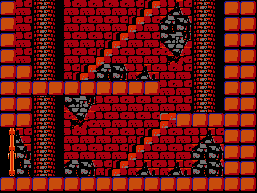
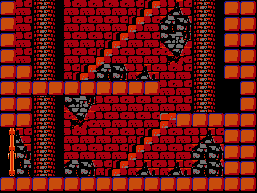
Add Simple HUD

Changed region(s): [[0.8716, 0.4041, 0.9339, 0.5907]]

diff --git a/Game/Simon.cpp b/Game/Simon.cpp
@@ -108,16 +108,6 @@ void CSimon::ProceedOnStairs()
 
 }
 
-//void CSimon::UseDagger()
-//{
-//	float xS, yS;
-//	this->GetPosition(xS, yS);
-//	dagger->SetPosition(xS, yS);
-//	dagger->SetOrientation(this->nx);
-//	dagger->SetVisible(true);
-//	this->SetState(SIMON_STATE_THROW);
-//}
-
 void CSimon::GoDownStair()
 {
 	// Check if Simon is on stairs and want to go down
@@ -240,8 +230,9 @@ void CSimon::Update(DWORD dt, vector <LPGAMEOBJECT>* coObjects)
 	coEvents.clear();
 		
 	// turn off collision when simon is die
-	if (state != SIMON_STATE_DIE)
+	if (state != SIMON_STATE_DIE )
 	{
+		
 		CalcPotentialCollisions(coObjects, coEvents);
 	}
 
@@ -374,22 +365,14 @@ void CSimon::Update(DWORD dt, vector <LPGAMEOBJECT>* coObjects)
 			}
 #pragma endregion
 			
-			else if (dynamic_cast<CStairBottom*> (e->obj))
+			else if (dynamic_cast<CStairBottom*> (e->obj) ||
+				dynamic_cast<CStairTop*> (e->obj))
 			{
-				DebugOut(L"[INFO] Stair bottom detection ! Direction: %d \n",this->nx);
+				DebugOut(L"[INFO] Stair detection ! Direction: %d \n",this->nx);
 				// Process normally
 				if (e->nx != 0) x += dx;
 				if (e->ny != 0) y += dy;
 	
-			}
-
-			else if (dynamic_cast<CStairTop*> (e->obj))
-			{
-				DebugOut(L"[INFO] Stair top detection ! Direction: %d \n", this->nx);
-				// Process normally
-				if (e->nx != 0) x += dx;
-				if (e->ny != 0) y += dy;
-
 			}
 
 			// switching scene logic		
@@ -400,12 +383,12 @@ void CSimon::Update(DWORD dt, vector <LPGAMEOBJECT>* coObjects)
 			CGame::GetInstance()->SwitchScene(p->GetSceneId());
 			}
 
-			else if (dynamic_cast<CBat*>(e->obj) ||
-			dynamic_cast<CBlack_Knight*>(e->obj))
+			else if (dynamic_cast<CBat*>(e->obj) ||	dynamic_cast<CBlack_Knight*>(e->obj))
 			{
-			if (e->nx != 0)
+			if (e->nx != 0 && untouchable==0)
 			{
-				if (untouchable == 0)
+			
+				if (onStairs == 0)
 				{
 					StartUntouchable();
 					DebugOut(L"[INFO] Enemies collision, Simon is Damaged \n");
@@ -415,11 +398,14 @@ void CSimon::Update(DWORD dt, vector <LPGAMEOBJECT>* coObjects)
 
 					SetState(SIMON_STATE_DEFLECT);
 				}
-					
-			}
-
-		}
-
+				else
+				{
+					StartUntouchable();
+					if (e->nx != 0) x += dx;
+					if (e->ny != 0) y += dy;
+				}
+			 }
+			 }
 
 			else
 			{
@@ -568,10 +554,14 @@ void CSimon::SetState(int state)
 	case SIMON_STATE_DEFLECT:
 	{
 		vy = -SIMON_DEFLECT_SPEED_Y;
+
 		if (nx > 0) vx = -SIMON_DEFLECT_SPEED_X;
 		else vx = SIMON_DEFLECT_SPEED_X;
+
 		animation_set->at(SIMON_ANI_DEFLECT)->Reset();
 		animation_set->at(SIMON_ANI_DEFLECT)->SetAniStartTime(GetTickCount());
+		
+		break;		
 	}
 	
 	}

diff --git a/Game/Code.cpp b/Game/Code.cpp
@@ -1,0 +1,52 @@
+#include "Code.h"
+#include "Sprites.h"
+
+void Code::DrawNumber(int max, float x, float y, int s)
+{
+	string str = to_string(s);
+
+	for (int i = 0; i < max - str.size(); i++)
+	{
+		CSprites::GetInstance()->Get(88000)->Draw(x, y,-1);
+		x += 7;
+	}
+
+	for (int i = 0; i < str.size(); i++)
+	{
+		CSprites::GetInstance()->Get(88000 + Convert(str[i]))->Draw(x, y,-1);
+		x += 7;
+	}
+}
+
+void Code::DrawHP(float x, float y, int type, int s)
+{
+	CSprites* sprites = CSprites::GetInstance();
+	CSprite* sprite1 = sprites->Get(88101);
+	CSprite* sprite2 = NULL;
+
+	if (type == 0) // simon health point
+		sprite2 = sprites->Get(88102);
+	else // Enemy
+		sprite2 = sprites->Get(88103);
+
+	for (int i = 0; i < s; i++)
+	{
+		sprite2->Draw(x, y,-1);
+		x += 6;
+	}
+
+	for (int i = 0; i < 6 - s; i++)
+	{
+		sprite1->Draw(x, y,-1);
+		x += 6;
+	}
+	sprites = NULL;
+	sprite1 = NULL;
+	sprite2 = NULL;
+
+}
+
+int Code::Convert(char c)
+{	
+	return c - '0';	
+}

diff --git a/Game/Board.cpp b/Game/Board.cpp
@@ -1,0 +1,47 @@
+#include "Board.h"
+
+Board* Board::__instance = NULL;
+void Board::Render()
+{
+	CSprites* sprites = CSprites::GetInstance();	
+
+	CGame* game = CGame::GetInstance();
+	float cx, cy;
+	game->GetCamPos(cx, cy);
+
+	sprites->Get(80000)->Draw(cx , cy+2,-1);
+	code->DrawNumber(4, cx+150, cy +8, time);
+	code->DrawNumber(6, cx + 55, cy + 8, 123456);
+	code->DrawNumber(2, cx + 234, cy + 8, game->GetSceneId());
+
+	code->DrawHP(cx + 60, cy + 18, 0, 0);
+	code->DrawHP(cx + 60, cy + 28, 1, 6);
+}
+Board::Board()
+{ 
+	time = 300;
+	count = GetTickCount();
+	isStop = false;
+	code = new Code();
+}
+
+Board* Board::GetInstance()
+{
+	if (__instance == NULL)
+		__instance = new Board();
+
+	return __instance;
+}
+
+void Board::Update(DWORD dt)
+{
+	if (isStop)
+	{
+		return;
+	}
+	if (GetTickCount() - count >= 1000)
+	{
+		time--;
+		count = GetTickCount();
+	}
+}

diff --git a/Game/PlayScence.cpp b/Game/PlayScence.cpp
@@ -270,6 +270,8 @@ void CPlayScene::Load()
 {
 	DebugOut(L"[INFO] Start loading scene resources from : %s \n", sceneFilePath);
 
+	HUD = Board::GetInstance();
+
 	ifstream f;
 	f.open(sceneFilePath);
 	
@@ -346,6 +348,8 @@ void CPlayScene::Update(DWORD dt)
 
 	// CGame::GetInstance()->SetCamPos(cx, 0.0f /*cy*/);
 	game ->SetCamPos(cx, 0.0f /*cy*/);
+
+	HUD->Update(dt);
 }
 
 void CPlayScene::Render()
@@ -360,6 +364,8 @@ void CPlayScene::Render()
 			continue;
 		objects[i]->Render();
 	}	
+
+	HUD->Render();
 }
 
 /*

diff --git a/Game/Game.cpp b/Game/Game.cpp
@@ -106,14 +106,14 @@ void CGame::SetCamPos(float x, float y)
 {
 	cam_x = x;
 	cam_y = y;
-	if (cam_x <0) cam_x = 0;		
-	
+	if (cam_x <0) cam_x = 0;			
 	if (cam_y < 0) cam_y = 0;	
 }
 
-D3DXVECTOR3 CGame::GetCamPos()
+void CGame::GetCamPos(float&x, float &y)
 {
-	return D3DXVECTOR3(cam_x, cam_y,0);
+	x = cam_x;
+	y = cam_y;	
 }
 
 int CGame::IsKeyDown(int KeyCode)

diff --git a/Game/Board.h b/Game/Board.h
@@ -1,0 +1,24 @@
+#pragma once
+#include"Game.h"
+#include"GameObject.h"
+#include "Simon.h"
+#include "Code.h"
+
+class Board
+{
+	//int score;
+	int time;	
+
+	static Board* __instance;
+
+	Code* code;
+	DWORD count;
+	bool isStop= false;
+
+public: 
+	Board();	
+	void Render();
+	void Update(DWORD dt);
+	static Board* GetInstance();
+};
+

diff --git a/Game/PlayScence.h b/Game/PlayScence.h
@@ -24,6 +24,7 @@
 #include "Boomerang.h"
 #include "BreakWall.h"
 #include "WallPieces.h"
+#include "Board.h"
 #include<vector>
 
 #define SCREEN_WIDTH	 270
@@ -41,6 +42,8 @@ protected:
 	CWhip* whip;
 	CDagger* dagger;
 	CBoomerang* boomerang;
+
+	Board* HUD;
 	
 	int mapWidth, offset_y;
 	vector<LPTILE> tiledMap;

diff --git a/Game/Simon.h b/Game/Simon.h
@@ -48,7 +48,7 @@
 #define SIMON_ANI_POWER_UP			14
 
 #define SIMON_GRAVITY						0.0005f	
-#define SIMON_WALKING_SPEED			0.08f
+#define SIMON_WALKING_SPEED			0.06f
 #define SIMON_JUMP_SPEED_Y				0.18f
 #define SIMON_GO_UPSTAIR_SPEED		0.03f
 #define SIMON_DIE_DEFLECT_SPEED		0.5

diff --git a/Game/Game.h b/Game/Game.h
@@ -93,7 +93,8 @@ public:
 	LPD3DXSPRITE GetSpriteHandler() { return this->spriteHandler; }
 
 	void SetCamPos(float x, float y);
-	D3DXVECTOR3 GetCamPos();
+	void GetCamPos(float& x, float& y);
+	//D3DXVECTOR3 GetCamPos();
 
 	static CGame * GetInstance();
 

diff --git a/Game/Code.h b/Game/Code.h
@@ -1,0 +1,13 @@
+#pragma once
+#pragma once
+#include<string>
+using namespace std;
+
+class Code
+{
+public:
+	void DrawNumber(int max, float x, float y, int s);
+	void DrawHP(float x, float y, int type, int s);
+	int Convert(char c);
+};
+
